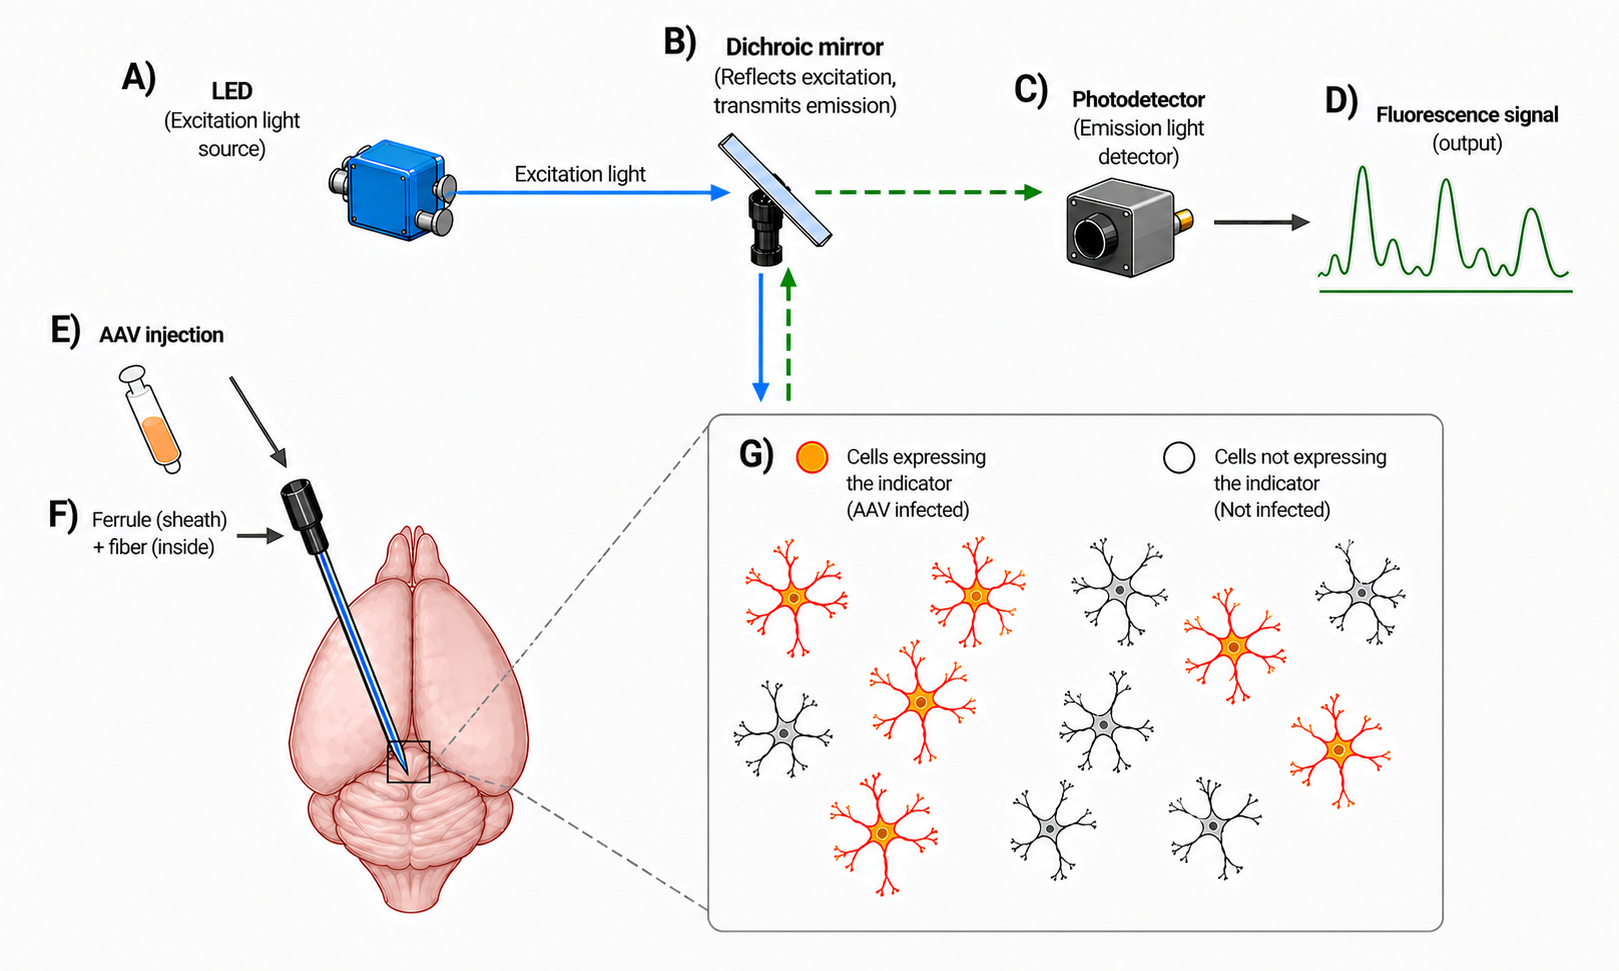
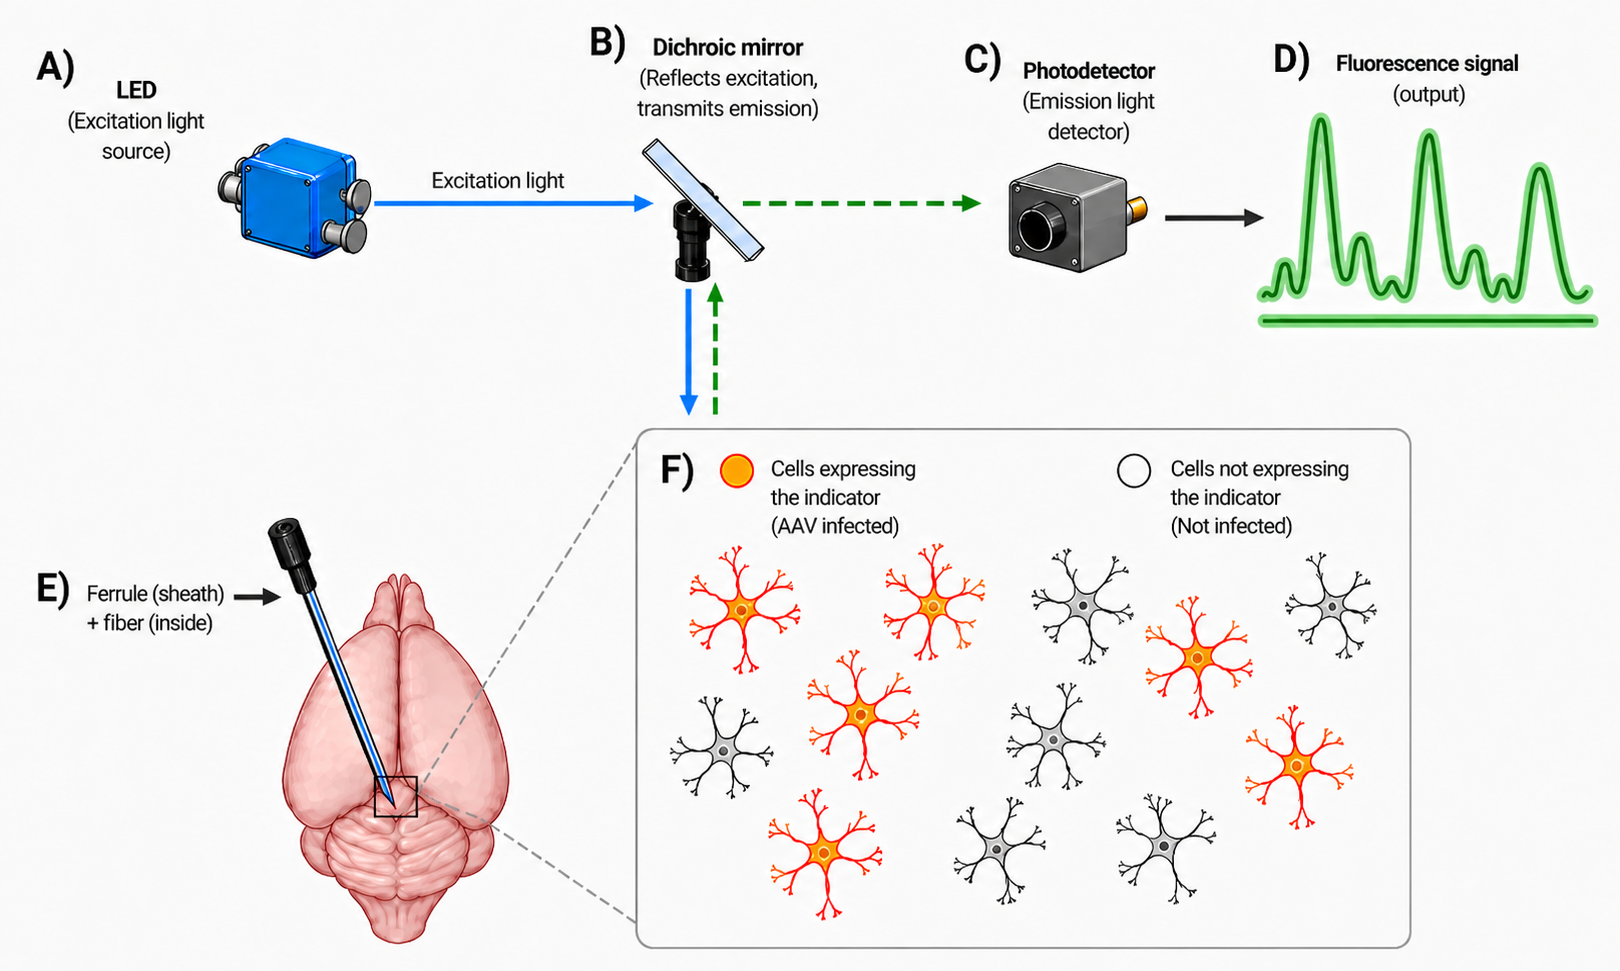
paul correction

diff --git a/docs/explanation/fiber_photometry.md b/docs/explanation/fiber_photometry.md
@@ -14,11 +14,11 @@ Three qualities of fiber photometry drive its adoption:
 
 Each of those qualities is grounded in a specific part of the apparatus. The schematic below traces the experiment end to end.
 
-![Schematic of a fiber-photometry recording setup with labeled components. (A) LED, the excitation light source. (B) Dichroic mirror, which reflects excitation and transmits emission. (C) Photodetector. (D) Fluorescence signal output. (E) AAV injection delivering the indicator's genetic construct into the brain. (F) Implanted optical fiber, with ferrule (sheath) outside and the light-carrying fiber inside. (G) Inset of the target region: orange dendritic cells took up the virus and express the indicator (AAV-infected); grey cells did not. Dashed arrows between the dichroic and the fiber show the bidirectional light path (blue down for excitation, green up for emission).](../_static/images/fiber_photometry_explainer/fig1_technique_schematic.png)
+![Schematic of a fiber-photometry recording setup with labeled components. (A) LED, the excitation light source. (B) Dichroic mirror, which reflects excitation and transmits emission. (C) Photodetector. (D) Fluorescence signal output. (E) Implanted optical fiber, with ferrule (sheath) outside and the light-carrying fiber inside. (F) Inset of the target region with an explicit legend: orange dendritic cells took up the AAV and express the indicator (AAV-infected); grey cells did not. Dashed arrows between the dichroic and the fiber show the bidirectional light path (blue down for excitation, green up for emission).](../_static/images/fiber_photometry_explainer/fig1_technique_schematic.png)
 
-The **adeno-associated virus (AAV) injection** (E) delivers the indicator's genetic construct into the target brain region. The construct is gated by a viral promoter, often combined with a Cre-driver line in transgenic animals, and that promoter-plus-Cre combination is what gives photometry its cell-type specificity: only neurons that match the genetic targeting begin expressing the indicator (the orange cells in inset G). Cells that the virus does not reach, or that do not match the targeting, remain unlabeled (grey) and contribute nothing to the recording. This is the experimental knob the experimenter has over *which* cells they end up reading from.
+The indicator's genetic construct is delivered by an **adeno-associated virus (AAV) injection** into the target brain region (a separate surgery, not depicted). The construct is gated by a viral promoter, often combined with a Cre-driver line in transgenic animals, and that promoter-plus-Cre combination is what gives photometry its cell-type specificity: only neurons that match the genetic targeting begin expressing the indicator (the orange cells in inset F). Cells that the virus does not reach, or that do not match the targeting, remain unlabeled (grey) and contribute nothing to the recording. This is the experimental knob the experimenter has over *which* cells they end up reading from.
 
-The **optical fiber implant** (F) is placed into the same region in a separate surgery. The implant is a two-part unit: an outer ferrule (typically a small ceramic sleeve) that anchors mechanically to the skull with dental cement, and an inner light-carrying fiber (~200-400 µm core diameter for typical photometry experiments) bonded inside the ferrule. The ferrule provides a standardized optical connector for a patch cable that links the implant to the bench-top optics, so the apparatus can be detached between sessions and reattached repeatably across weeks. The fiber descends to wherever in the brain a needle can reach, so subcortical regions inaccessible to surface-only methods become recordable. Once implanted, the fiber carries light in both directions simultaneously: excitation light going down to the tissue, emitted fluorescence coming back up.
+The **optical fiber implant** (E) is placed into the same region in a separate surgery. The implant is a two-part unit: an outer ferrule (typically a small ceramic sleeve) that anchors mechanically to the skull with dental cement, and an inner light-carrying fiber (~200-400 µm core diameter for typical photometry experiments) bonded inside the ferrule. The ferrule provides a standardized optical connector for a patch cable that links the implant to the bench-top optics, so the apparatus can be detached between sessions and reattached repeatably across weeks. The fiber descends to wherever in the brain a needle can reach, so subcortical regions inaccessible to surface-only methods become recordable. Once implanted, the fiber carries light in both directions simultaneously: excitation light going down to the tissue, emitted fluorescence coming back up.
 
 An important feature of fiber photometry, and of fluorescence microscopy more generally, is how a **dichroic mirror** (B) lets two light signals share the same optical path. On the bench, an **LED** (A) delivers excitation light at the wavelength that drives the indicator (~470 nm, blue, for GCaMP). That light hits the dichroic, which is a wavelength-selective beam splitter: it reflects light below a chosen cut-on wavelength and transmits light above it. With the cut-on placed between GCaMP's excitation peak (~470 nm) and emission peak (~525 nm), the dichroic enables two distinct light paths through one fiber:
 